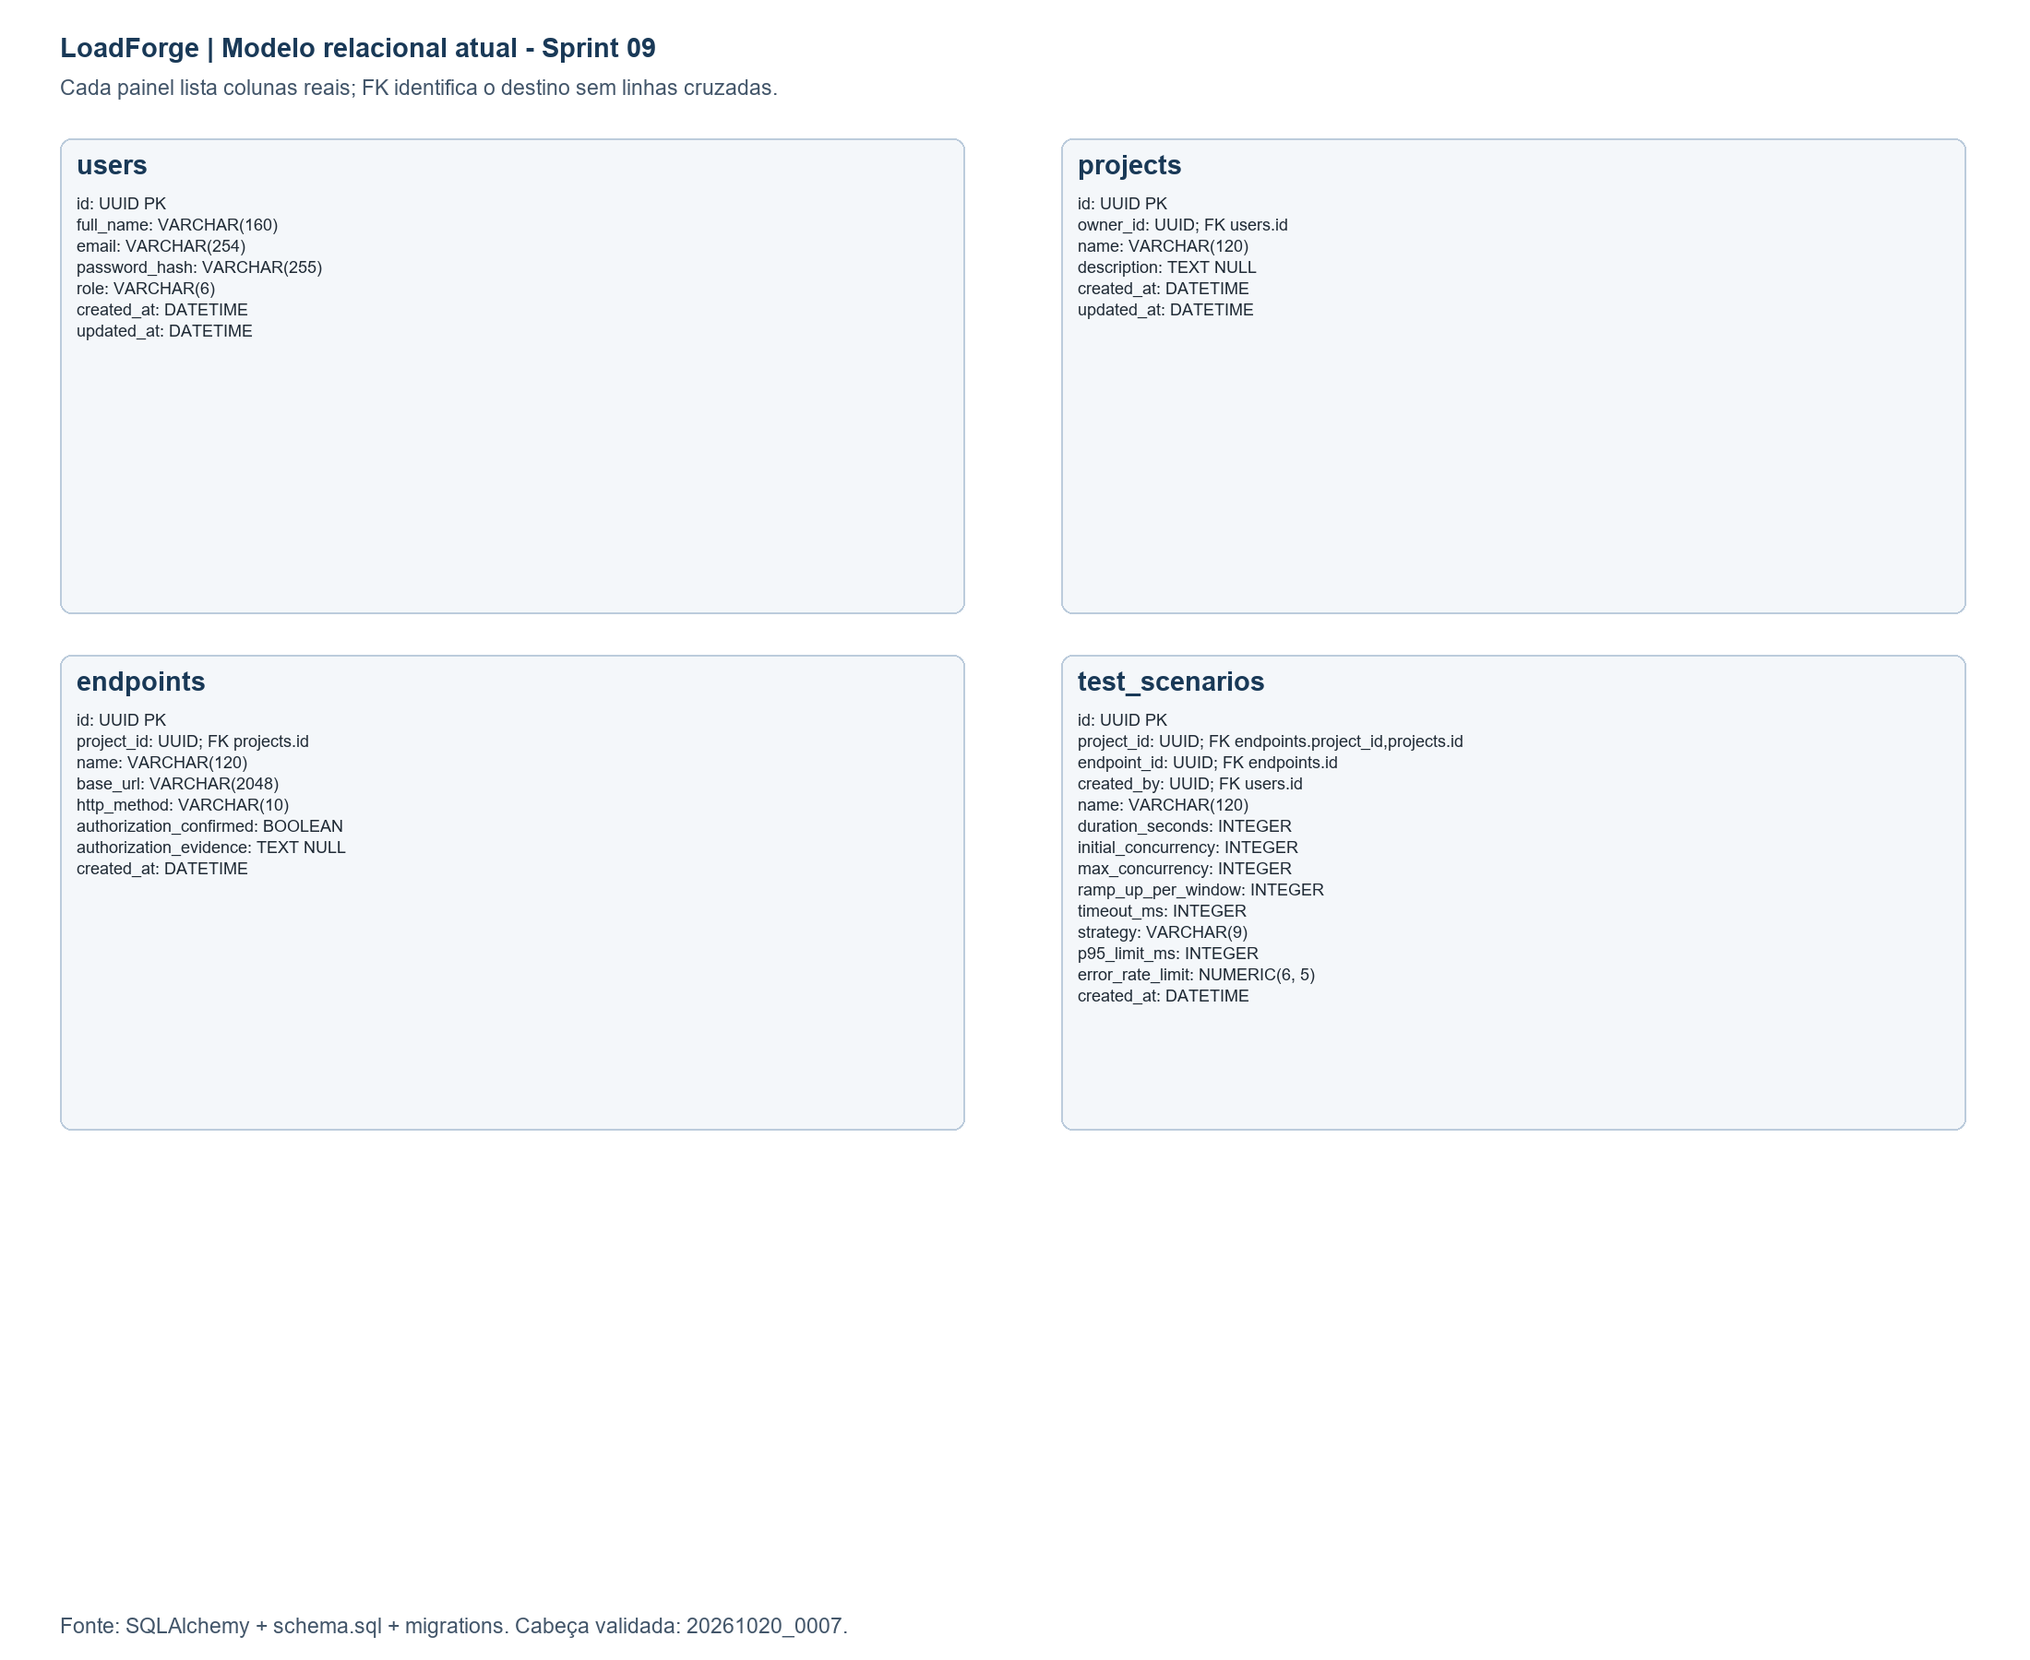
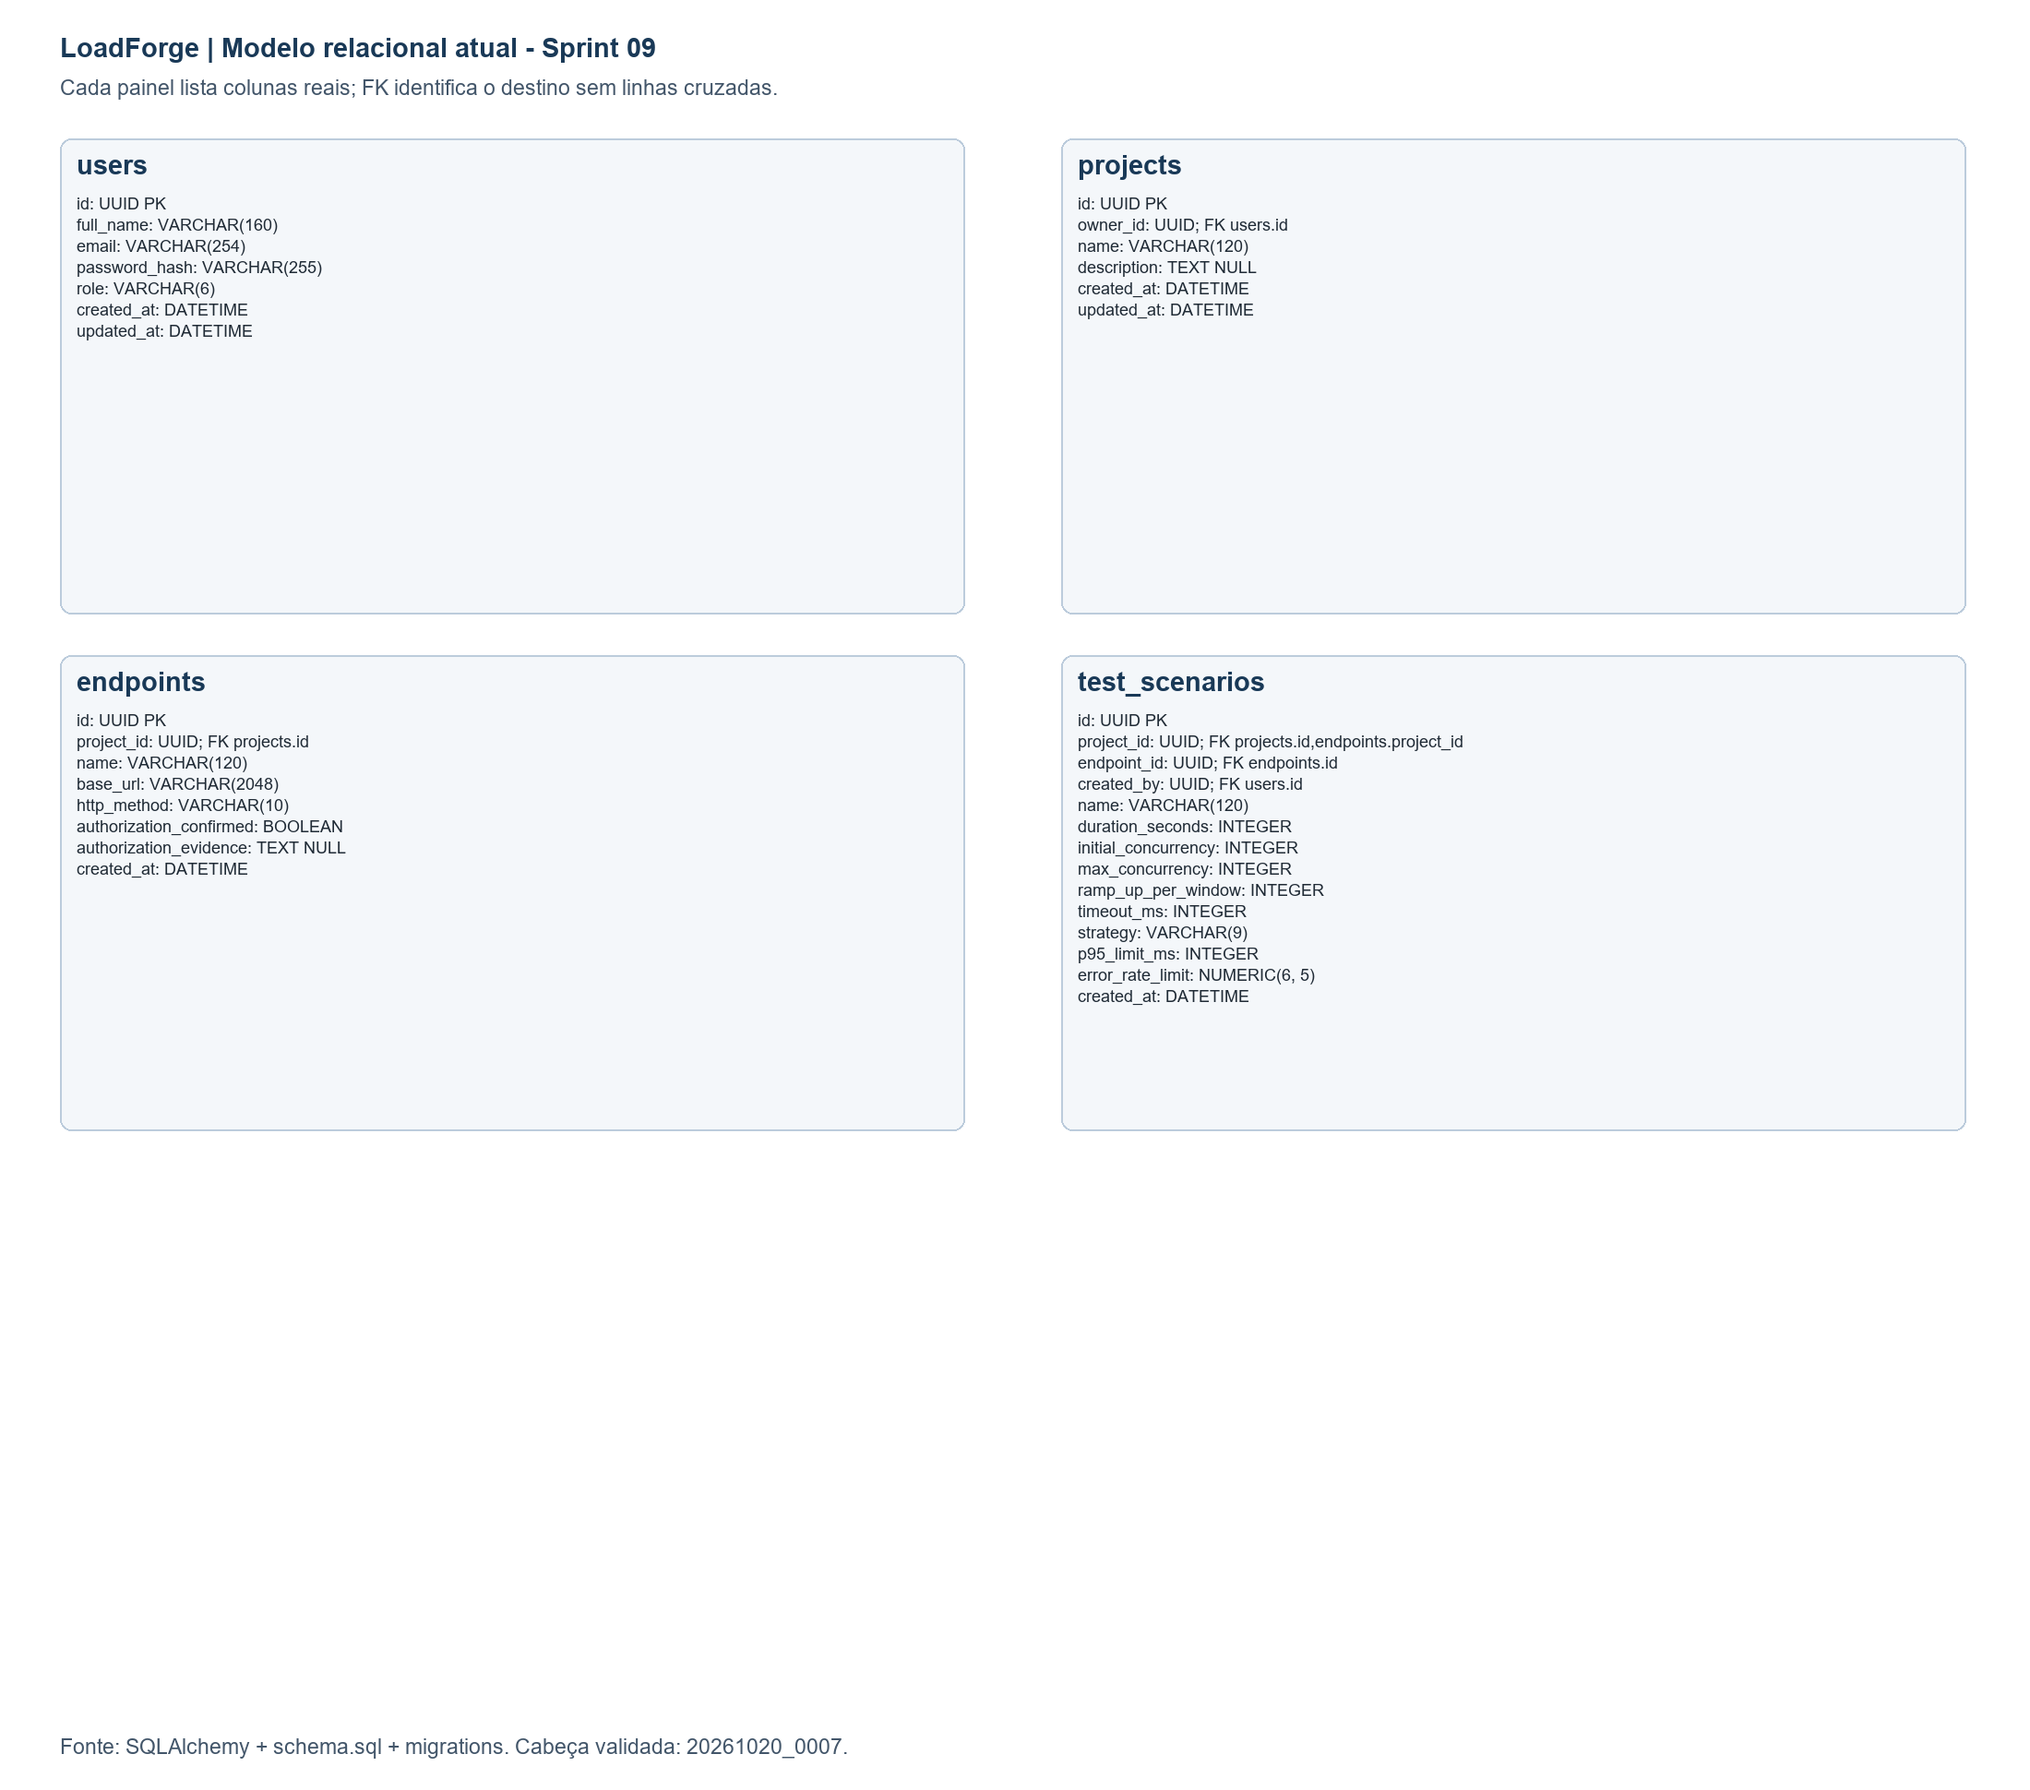
docs(diagramas): disponibilizar exportador atual e ajustar espaco dos paineis
Deriva os 13 paineis das colunas ORM e amplia a margem inferior para separar legenda e entidade. As imagens atuais podem ser regeneradas com o ambiente Python do backend.

diff --git a/scripts/render_current_models.py b/scripts/render_current_models.py
@@ -1,0 +1,30 @@
+from pathlib import Path
+import sys
+from PIL import Image, ImageDraw, ImageFont
+R=Path(__file__).resolve().parents[1]
+sys.path.insert(0,str(R/'backend'))
+from app.db import models
+from app.db.base import Base
+D=R/'docs/diagrams'
+# Current relational exports are derived from ORM metadata, including every column.
+out=D/'exports/sprint-09';out.mkdir(parents=True,exist_ok=True)
+groups=[('01-cadastros',['users','projects','endpoints','test_scenarios']),('02-execucao-ia',['test_executions','metric_windows','model_versions','risk_predictions','control_decisions']),('03-relatorios-auditoria',['execution_reports','comparison_reports','comparison_report_executions','operation_logs'])]
+regular=ImageFont.truetype('C:/Windows/Fonts/arial.ttf',23)
+bold=ImageFont.truetype('C:/Windows/Fonts/arialbd.ttf',29)
+for name,tables in groups:
+    im=Image.new('RGB',(2200,1940),'white');dr=ImageDraw.Draw(im)
+    dr.text((65,35),'LoadForge | Modelo relacional atual - Sprint 09',font=bold,fill='#193957')
+    dr.text((65,82),'Cada painel lista colunas reais; FK identifica o destino sem linhas cruzadas.',font=regular,fill='#43566a')
+    positions=[(65,150),(1150,150),(65,710),(1150,710),(65,1270)]
+    for t,(x,y) in zip(tables,positions):
+        table=Base.metadata.tables[t]
+        dr.rounded_rectangle((x,y,x+980,y+515),radius=12,fill='#f4f7fa',outline='#bcccdc',width=2)
+        dr.text((x+18,y+12),t,font=bold,fill='#193957')
+        for i,c in enumerate(table.columns):
+            flags=(' PK' if c.primary_key else '')+(' NULL' if c.nullable else '')
+            fk='; FK '+','.join(f.target_fullname for f in c.foreign_keys) if c.foreign_keys else ''
+            text=f'{c.name}: {c.type}{flags}{fk}'
+            # Two lines only when a long composite description needs it.
+            dr.text((x+18,y+60+i*23),text,font=ImageFont.truetype('C:/Windows/Fonts/arial.ttf',18),fill='#202b36')
+    dr.text((65,1880),'Fonte: SQLAlchemy + schema.sql + migrations. Cabeça validada: 20261020_0007.',font=regular,fill='#43566a')
+    im.save(out/(name+'.png'))
